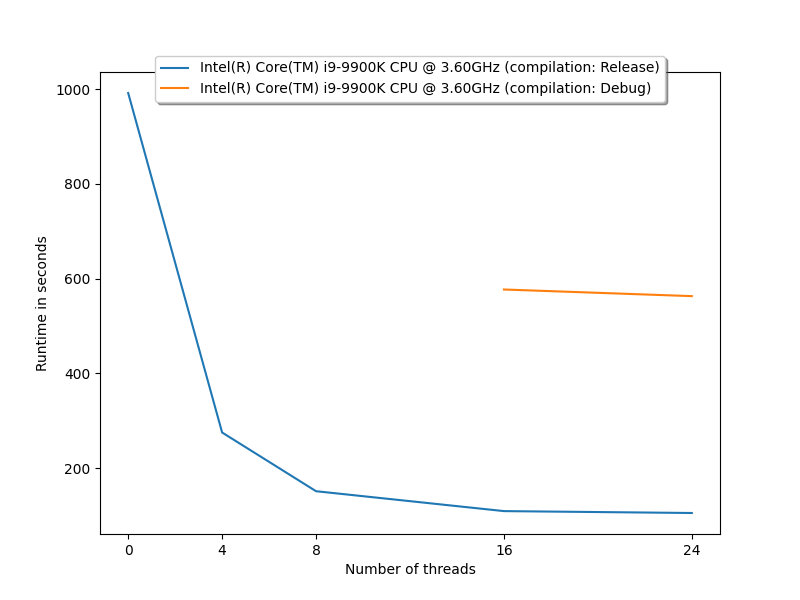
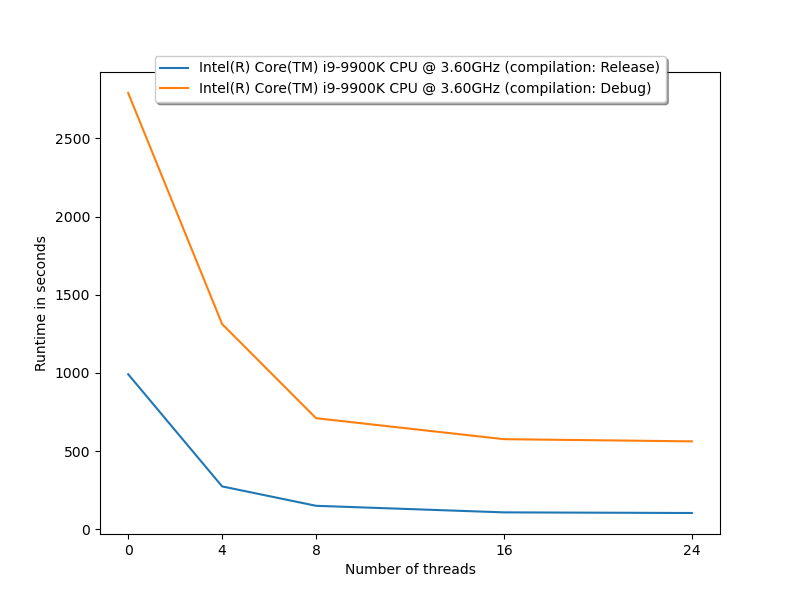
Add more data.

diff --git a/README.md b/README.md
@@ -21,11 +21,11 @@ Runtime in seconds on GNU/Linux openSUSE using g++ (SUSE Linux) 7.5.0 using two 
 
 | Processor:                                      | Release date | Parallelisation     | Release | Debug |
 |-------------------------------------------------|--------------|---------------------|---------|-------|
-| Intel(R) Core(TM) i9-9900K CPU @ 3.60GHz        | Q4 2018      | None                | 992     |       |
-| Intel(R) Core(TM) i9-9900K CPU @ 3.60GHz        | Q4 2018      | OpenMP (4 threads)  | 275     | 563   |
-| Intel(R) Core(TM) i9-9900K CPU @ 3.60GHz        | Q4 2018      | OpenMP (8 threads)  | 151     | 577   |
-| Intel(R) Core(TM) i9-9900K CPU @ 3.60GHz        | Q4 2018      | OpenMP (16 threads) | 109     |       |
-| Intel(R) Core(TM) i9-9900K CPU @ 3.60GHz        | Q4 2018      | OpenMP (24 threads) | 105     |       |
+| Intel(R) Core(TM) i9-9900K CPU @ 3.60GHz        | Q4 2018      | None                | 992     | 2790  |
+| Intel(R) Core(TM) i9-9900K CPU @ 3.60GHz        | Q4 2018      | OpenMP (4 threads)  | 275     | 1313  |
+| Intel(R) Core(TM) i9-9900K CPU @ 3.60GHz        | Q4 2018      | OpenMP (8 threads)  | 151     | 711   |
+| Intel(R) Core(TM) i9-9900K CPU @ 3.60GHz        | Q4 2018      | OpenMP (16 threads) | 109     | 577   |
+| Intel(R) Core(TM) i9-9900K CPU @ 3.60GHz        | Q4 2018      | OpenMP (24 threads) | 105     | 563   |
 | AMD FX(tm)-8350 Eight-Core Processor @ 4.00GHz  | Q4 2012      | None                |         |       |
 | AMD FX(tm)-8350 Eight-Core Processor @ 4.00GHz  | Q4 2012      | OpenMP (4 threads)  |         |       |
 | AMD FX(tm)-8350 Eight-Core Processor @ 4.00GHz  | Q4 2012      | OpenMP (8 threads)  |         |       |
@@ -33,4 +33,4 @@ Runtime in seconds on GNU/Linux openSUSE using g++ (SUSE Linux) 7.5.0 using two 
 | AMD FX(tm)-8350 Eight-Core Processor @ 4.00GHz  | Q4 2012      | OpenMP (24 threads) |         |       |
 
 ![Plot of the runtimes](runtimes.png)
-
+ff
